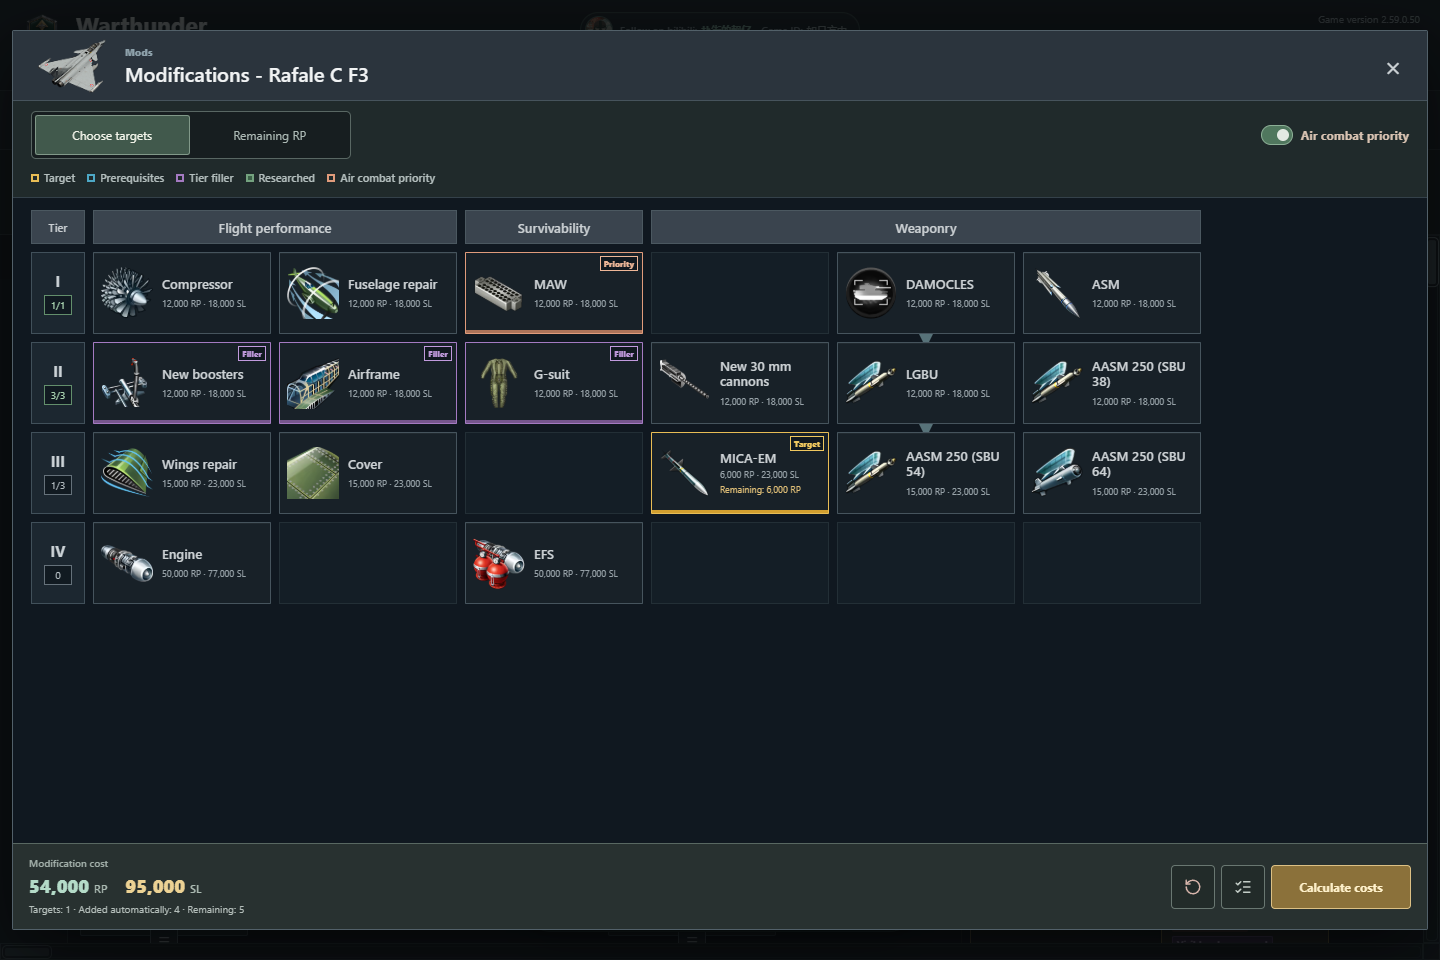
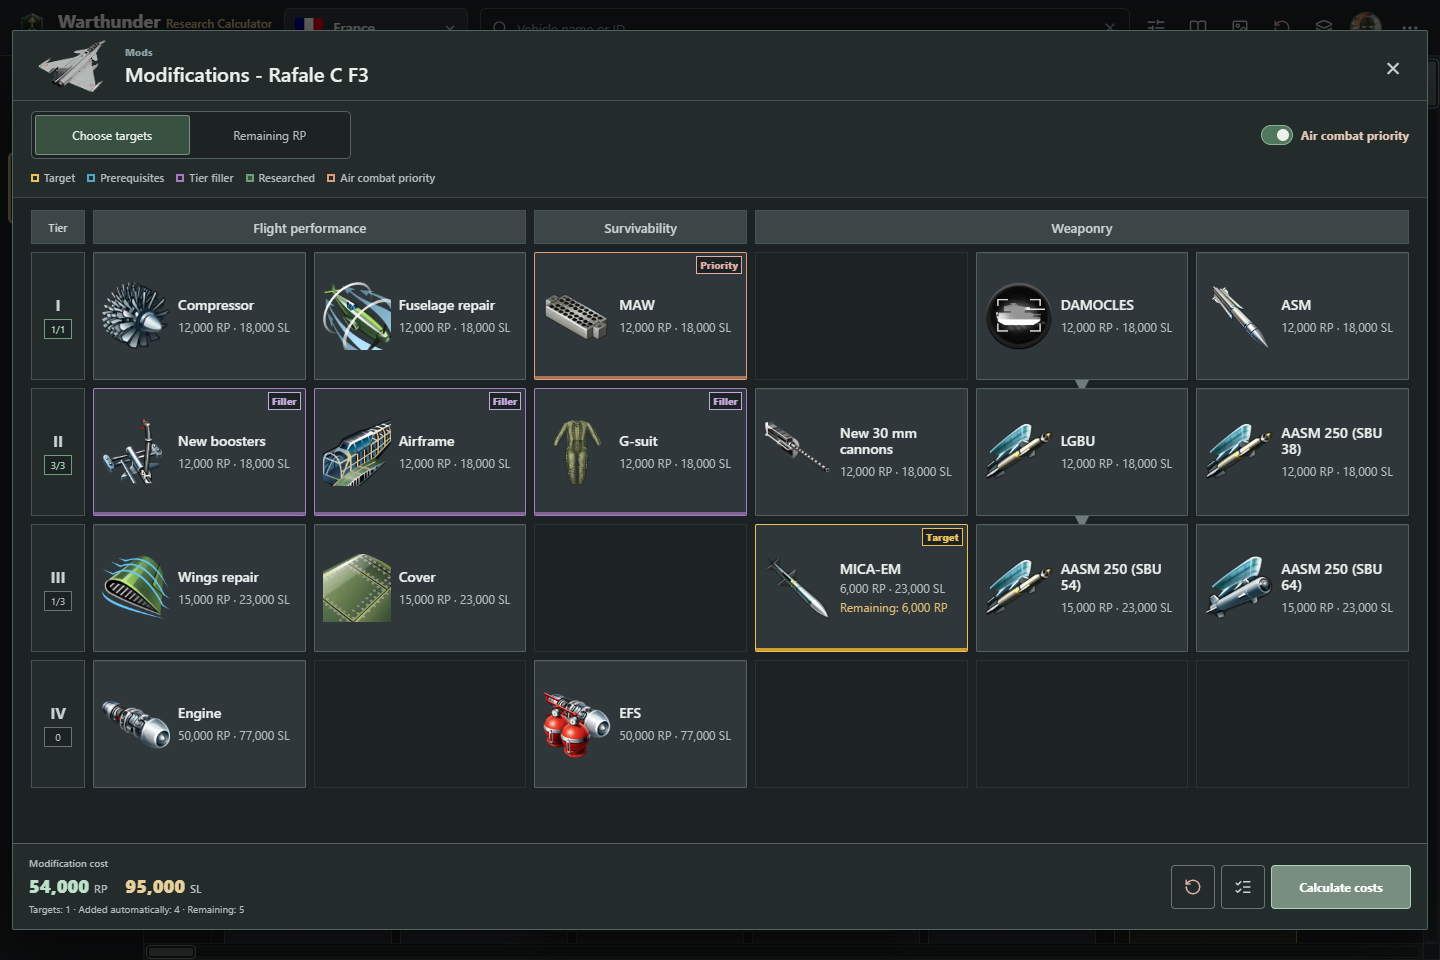
Document the redesigned interface and refresh README screenshots
Describe the single-row desktop header, where the moved controls live,
the gear entry for modifications and route dimming in both READMEs, add
a web changelog entry, and regenerate the screenshots from the current
web app with tools/capture-readme.cjs.

diff --git a/README.md b/README.md
@@ -22,7 +22,7 @@
 
 [![自动规划后的美国陆战科技树，展示 M18 目标和底部研发预算](doc/assets/research-tree-zh.png)](doc/assets/research-tree-zh.png)
 
-- **分清每辆车的用途**：目标、途经点、必经载具和等级补足分别显示，折叠组也能查看已选数量。
+- **分清每辆车的用途**：目标、途经点、必经载具和等级补足分别显示，折叠组也能查看已选数量。设定目标后，路线之外的载具和连线会变暗，鼠标移上去恢复。
 - **规划后仍可调整**：单独取消一辆车或标记已拥有，不会清空整条路线；再次规划时再重新计算。
 - **按游戏里的剩余值算**：直接填写游戏显示的剩余 RP。例如总计 140,000 RP、还剩 60,000 RP，就填 60,000；预算和自动规划按这个数计算，银狮不变。
 - **批量标记已拥有**：按等级标记本级及以下普通载具，确认前可查看列表，操作后可撤销；特殊和隐藏载具不会一并标记。
@@ -59,6 +59,9 @@
 | 填写载具剩余 RP | 右键 → 研发进度 | 长按 → 研发进度 |
 | 自动计算路线 | 点击底部“精确规划” | 同左 |
 | 查看载具资料 | 点击卡片上的 Wiki 小书签 | 同左 |
+| 打开配件研发 | 点击卡片右上角的齿轮 | 同左 |
+
+电脑端顶栏只有一行：国家、搜索，以及筛选、使用指南、导出截图、清空计划、备份几个图标按钮，鼠标悬停显示名称。计算范围、“自动补位时避开折叠载具”和“全选”在“筛选”菜单；语言和游戏版本在右上角“更多”菜单；点击头像查看作者信息。窗口较窄时，国家与军种、搜索各占一行。
 
 手机版的使用指南和导出功能位于顶部“更多”菜单，搜索和筛选有各自的入口。最新网页改动见[独立更新日志](doc/web-updates.md)，使用指南中保留历史版本记录。
 
@@ -68,9 +71,9 @@
 
 网页版直接打开即可，无需游戏账号。Windows 用户下载 [v1.0.26 便携包](https://github.com/Plastic-time/warthunder-research-calculator/releases/download/v1.0.26/WarThunderResearchCalculator-v1.0.26-portable.zip)，解压后运行 `WarThunderResearchCalculator.exe`，不需要另外安装 Node.js。
 
-> 本页说明和截图对应最新版网页。v1.0.26 下载包尚未包含本轮配件窗口、合并清空和“剩余 RP”输入改进，也不会自动获得网页更新。
+> 本页说明和截图对应最新版网页。v1.0.26 下载包尚未包含本轮界面改版（单行顶栏、紧凑载具卡片、配件窗口新布局）、合并清空和“剩余 RP”输入改进，也不会自动获得网页更新。
 
-“全选”可选择或取消当前国家、军种的常规研发载具，包含折叠载具，保留已拥有标记和研发进度。导出截图同时显示科技树原始总额与当前选择还需的 RP、银狮；缺失费用会单独提示。
+“筛选”菜单中的“全选”可选择或取消当前国家、军种的常规研发载具，包含折叠载具，保留已拥有标记和研发进度。导出截图同时显示科技树原始总额与当前选择还需的 RP、银狮；缺失费用会单独提示。
 
 剩余 RP 填 0 不等于已拥有或已研发，完成状态仍需单独标记。进度不会扣减购买所需的银狮。输入不能为空，且必须是 0 到总费用之间的整数。
 

diff --git a/README.en.md b/README.en.md
@@ -61,6 +61,9 @@ Open a vehicle's modification window and choose the upgrades you need. Mark rese
 | Enter remaining RP for a vehicle | Right-click → Research Progress | Press and hold → Research Progress |
 | Calculate a route | Select Optimize route in the bottom bar | Same |
 | View vehicle information | Select the Wiki bookmark on the card | Same |
+| Open modification research | Select the gear at the top right of the card | Same |
+
+On desktop, the header is a single row: nation, search, and icon buttons for Filters, Guide, Export, Clear Plan, and Backup. Hover over an icon to see its name. Calculation scope, the foldered-vehicle option, and Select all are in Filters. Language and game version are in More at the top right. Select the avatar for author details. In narrower windows, nation and category share one row and search takes the next.
 
 On mobile, open More at the top to find the guide and export controls. Search and filters have separate buttons. See the [web changelog](doc/web-updates.md#english) for recent changes. The in-app guide keeps earlier release notes.
 
@@ -68,9 +71,9 @@ On mobile, open More at the top to find the guide and export controls. Search an
 
 Open the web app to start. No game account is required. On Windows, download the [v1.0.26 portable package](https://github.com/Plastic-time/warthunder-research-calculator/releases/download/v1.0.26/WarThunderResearchCalculator-v1.0.26-portable.zip). Extract it and run `WarThunderResearchCalculator.exe`. No separate Node.js installation is needed.
 
-> This guide and its screenshots show the current web app. The v1.0.26 download does not include the latest modification layout, combined clear button, or remaining-RP input. It does not receive web updates automatically.
+> This guide and its screenshots show the current web app. The v1.0.26 download does not include the redesigned interface (single-row header, compact vehicle cards, new modification layout), the combined clear button, or remaining-RP input. It does not receive web updates automatically.
 
-Select all toggles the current nation's regular research tree, including foldered vehicles. It keeps owned marks and research progress. Exported screenshots show original tree totals and the RP and Silver Lions still needed for your selection. Missing costs are clearly flagged.
+Select all, in Filters, toggles the current nation's regular research tree, including foldered vehicles. It keeps owned marks and research progress. Exported screenshots show original tree totals and the RP and Silver Lions still needed for your selection. Missing costs are clearly flagged.
 
 Zero remaining RP does not mark a vehicle as owned or an upgrade as researched. Set those states separately. Silver Lion costs stay unchanged. Enter a whole number from 0 to the full RP cost. Blank input is not accepted.
 

diff --git a/doc/web-updates.md b/doc/web-updates.md
@@ -4,6 +4,16 @@
 
 这里单独记录下载版本之后的网页改动，不代表发布了新的 Windows 包。
 
+## 2026-10-13 · 界面改版
+
+- 宽屏桌面的标题栏和筛选栏合并为一行，高度从约 184 像素降到 56 像素，科技树多显示约一行载具。使用指南、导出截图、清空计划和备份改为图标按钮，悬停显示名称。
+- 计算范围、“自动补位时避开折叠载具”和“全选”移入“筛选”菜单；语言和游戏版本移入“更多”菜单；作者信息点击头像查看。手机布局不变。
+- 载具卡片改为紧凑布局，标准卡片从 174 像素降到 109 像素。“配件”入口改为卡片右上角的齿轮，触屏保留 44 像素点击区域。
+- 设定目标后，路线之外的载具和连线变暗；必经载具改用偏蓝底色。
+- 配件窗口改用与主界面一致的深灰色系，配件格随窗口大小放大，不再留出大片空白。
+- 样式中的颜色和字号收拢为一套共用变量，个别颜色和字号有细微变化。
+- 不修改计算逻辑、游戏数据或版本号；本次仅更新网页，不发布 Windows 包。浏览器检查覆盖桌面与手机模拟尺寸，未替代实体手机验收。
+
 ## 2026-10-11 · 科技树搜索优化
 
 - 载具名称和 ID 搜索兼容空格、连字符、大小写及全角输入，例如 F15、F-15 和 F 15。
@@ -61,6 +71,16 @@
 ## English
 
 This log covers web updates after the downloadable release. These entries do not announce new Windows packages.
+
+### 2026-10-13 · Interface Redesign
+
+- On wide desktops the title bar and filter bar are now one row, down from about 184 px to 56 px, so roughly one more row of vehicles fits. Guide, Export, Clear Plan, and Backup are icon buttons with tooltips.
+- Calculation scope, the foldered-vehicle option, and Select all moved to Filters. Language and game version moved to More. Select the avatar for author details. The mobile layout is unchanged.
+- Vehicle cards are more compact: a standard card is 109 px tall instead of 174 px. Modifications open from a gear at the top right of the card, with a 44 px touch target on touchscreens.
+- Once a target is set, vehicles and links off the route are dimmed. Required vehicles use a blue-tinted surface.
+- The modification window uses the same graphite colors as the main view. Its cells grow with the window instead of leaving it half empty.
+- Stylesheet colors and font sizes now come from one shared set of variables. A few colors and sizes changed slightly.
+- No changes to calculations, game data, or version numbers. Web update only; no Windows package. Browser checks covered desktop and emulated mobile sizes, not physical phones.
 
 ### 2026-10-11 · Tech Tree Search
 
